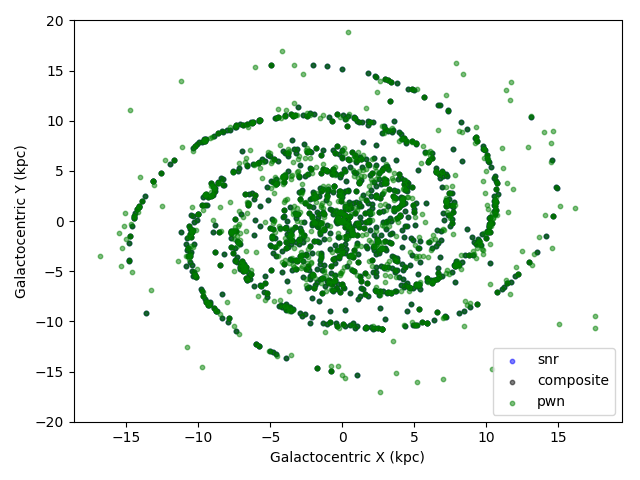
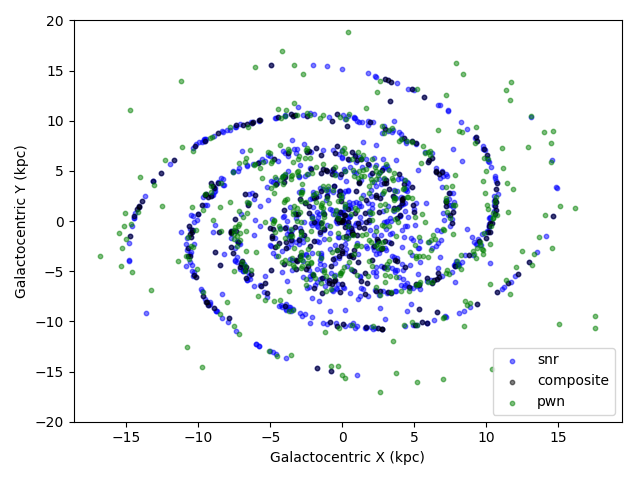
same as before

diff --git a/sky_model_checks/source_distib_check.py b/sky_model_checks/source_distib_check.py
@@ -365,10 +365,11 @@ class GPSSkyModel:
 
     def plot_galactic_xz(self):
         fig, ax = plt.subplots(figsize=(15, 5))
-        x = []
-        z = []
-        for component in self.get_components(tags=['composite','snr', 'pwn']):
+
+        for component in self.get_components(tags=['composite', 'pwn']):
             table = component['table']
+            x = []
+            z = []
             for row in table:
                 if (row['skip'] == 1):
                     continue;
@@ -392,10 +393,11 @@ class GPSSkyModel:
 
     def plot_galactic_xy(self):
         fig, ax = plt.subplots()
-        x = []
-        y = []
+
         for component in self.get_components(tags=['snr','composite','pwn']):
             table = component['table']
+            x = []
+            y = []
             for row in table:
                 if (row['skip'] == 1):
                     continue;

diff --git a/sky_model/pwn/model_pwn.py b/sky_model/pwn/model_pwn.py
@@ -322,6 +322,7 @@ def add_spectra(table, random_state,
     )
     luminosity = luminosity * u.erg / u.second
 
+
    # logluminosity = random_state.normal(mean_logluminosity, sigma_logluminosity, n_sources)
    # for idx in range(len(table)):
    #     if logluminosity[idx] > 35:
